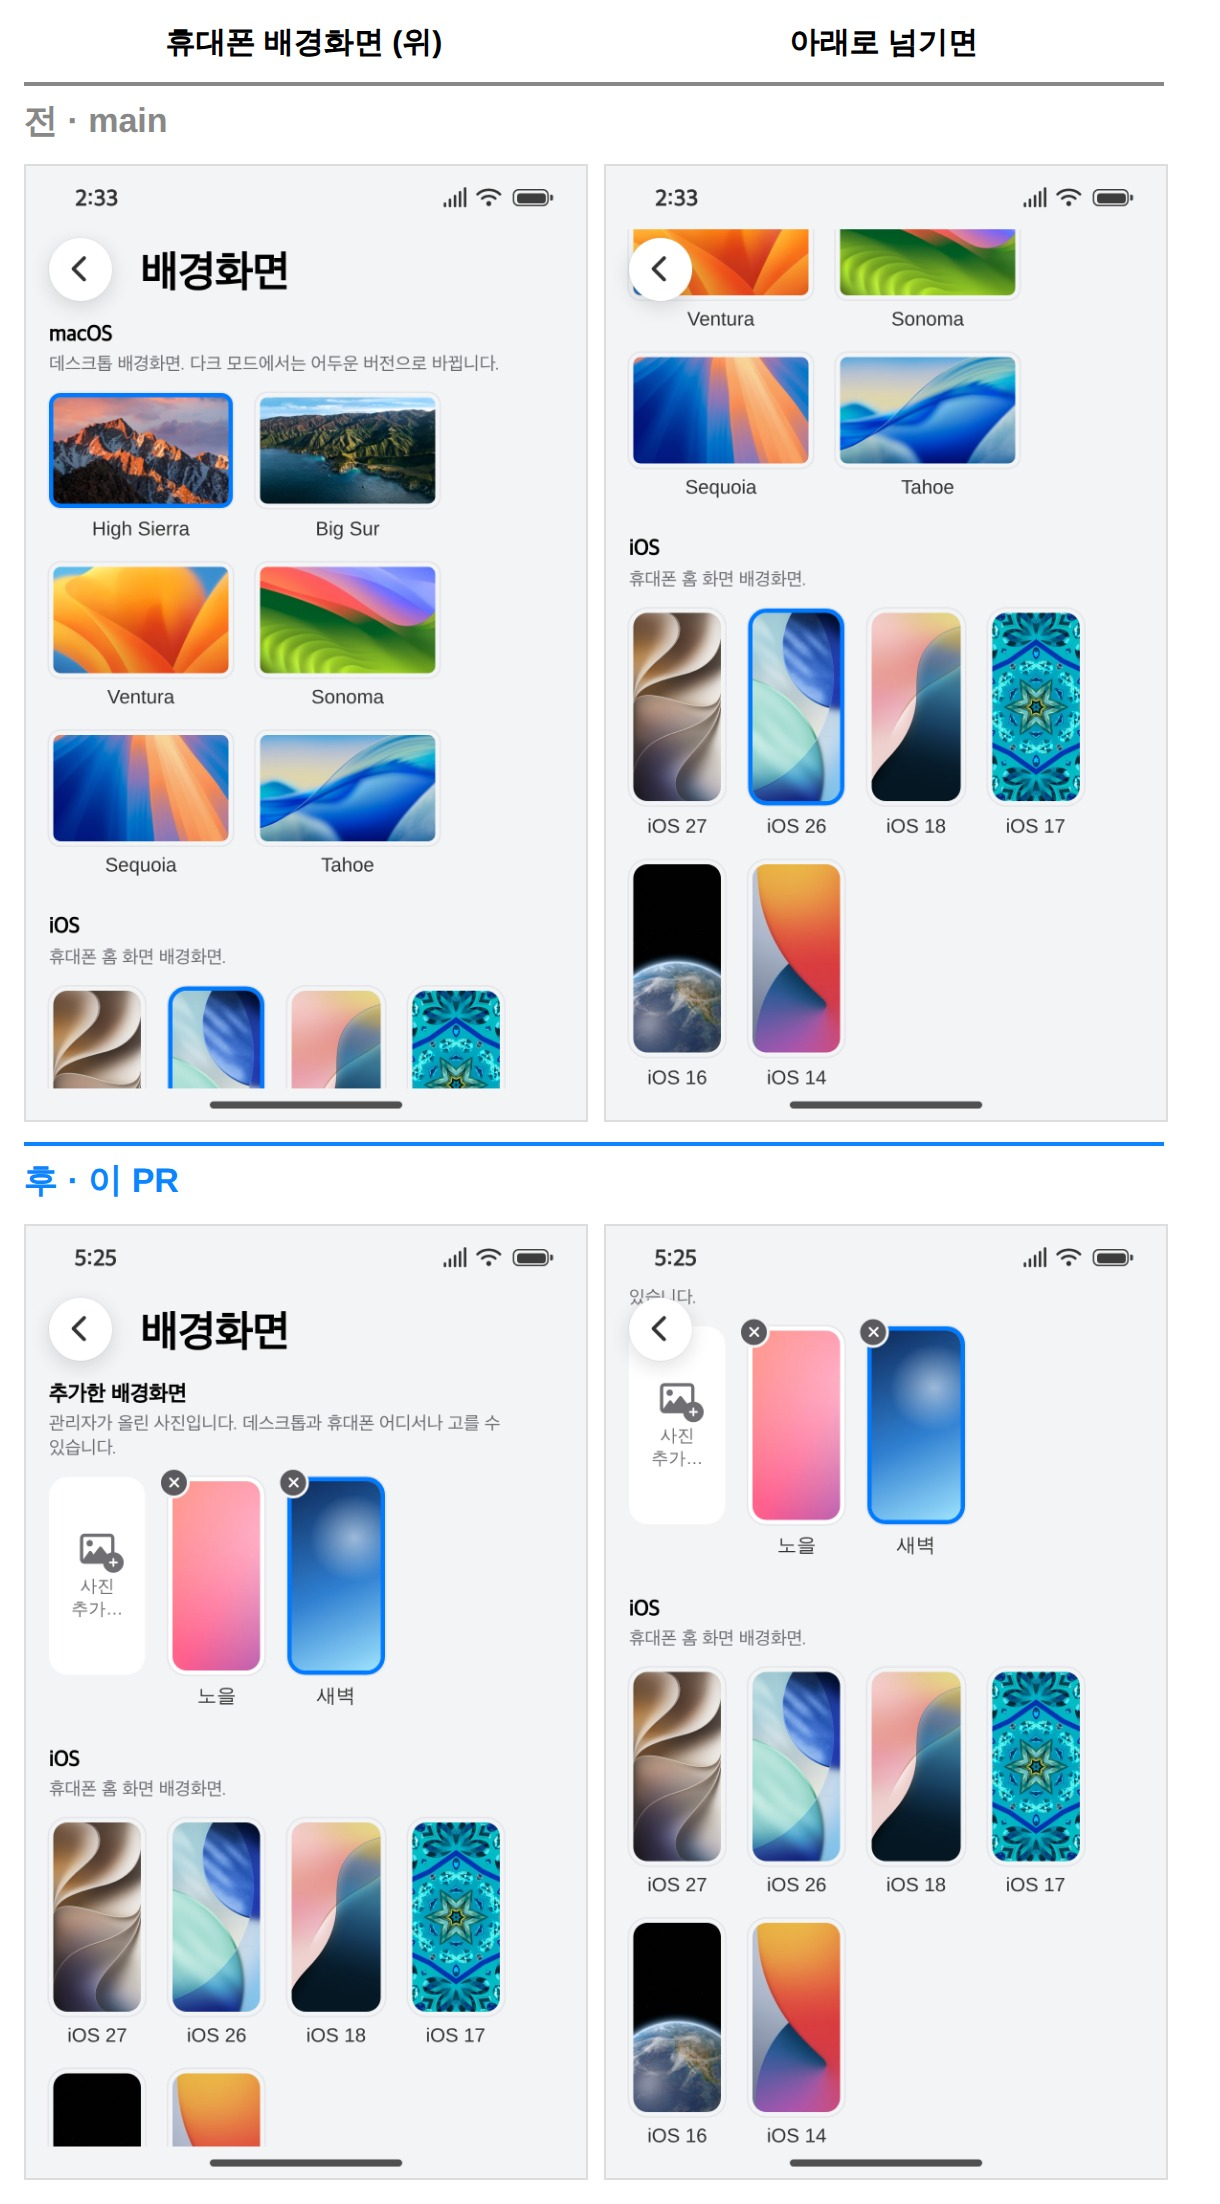
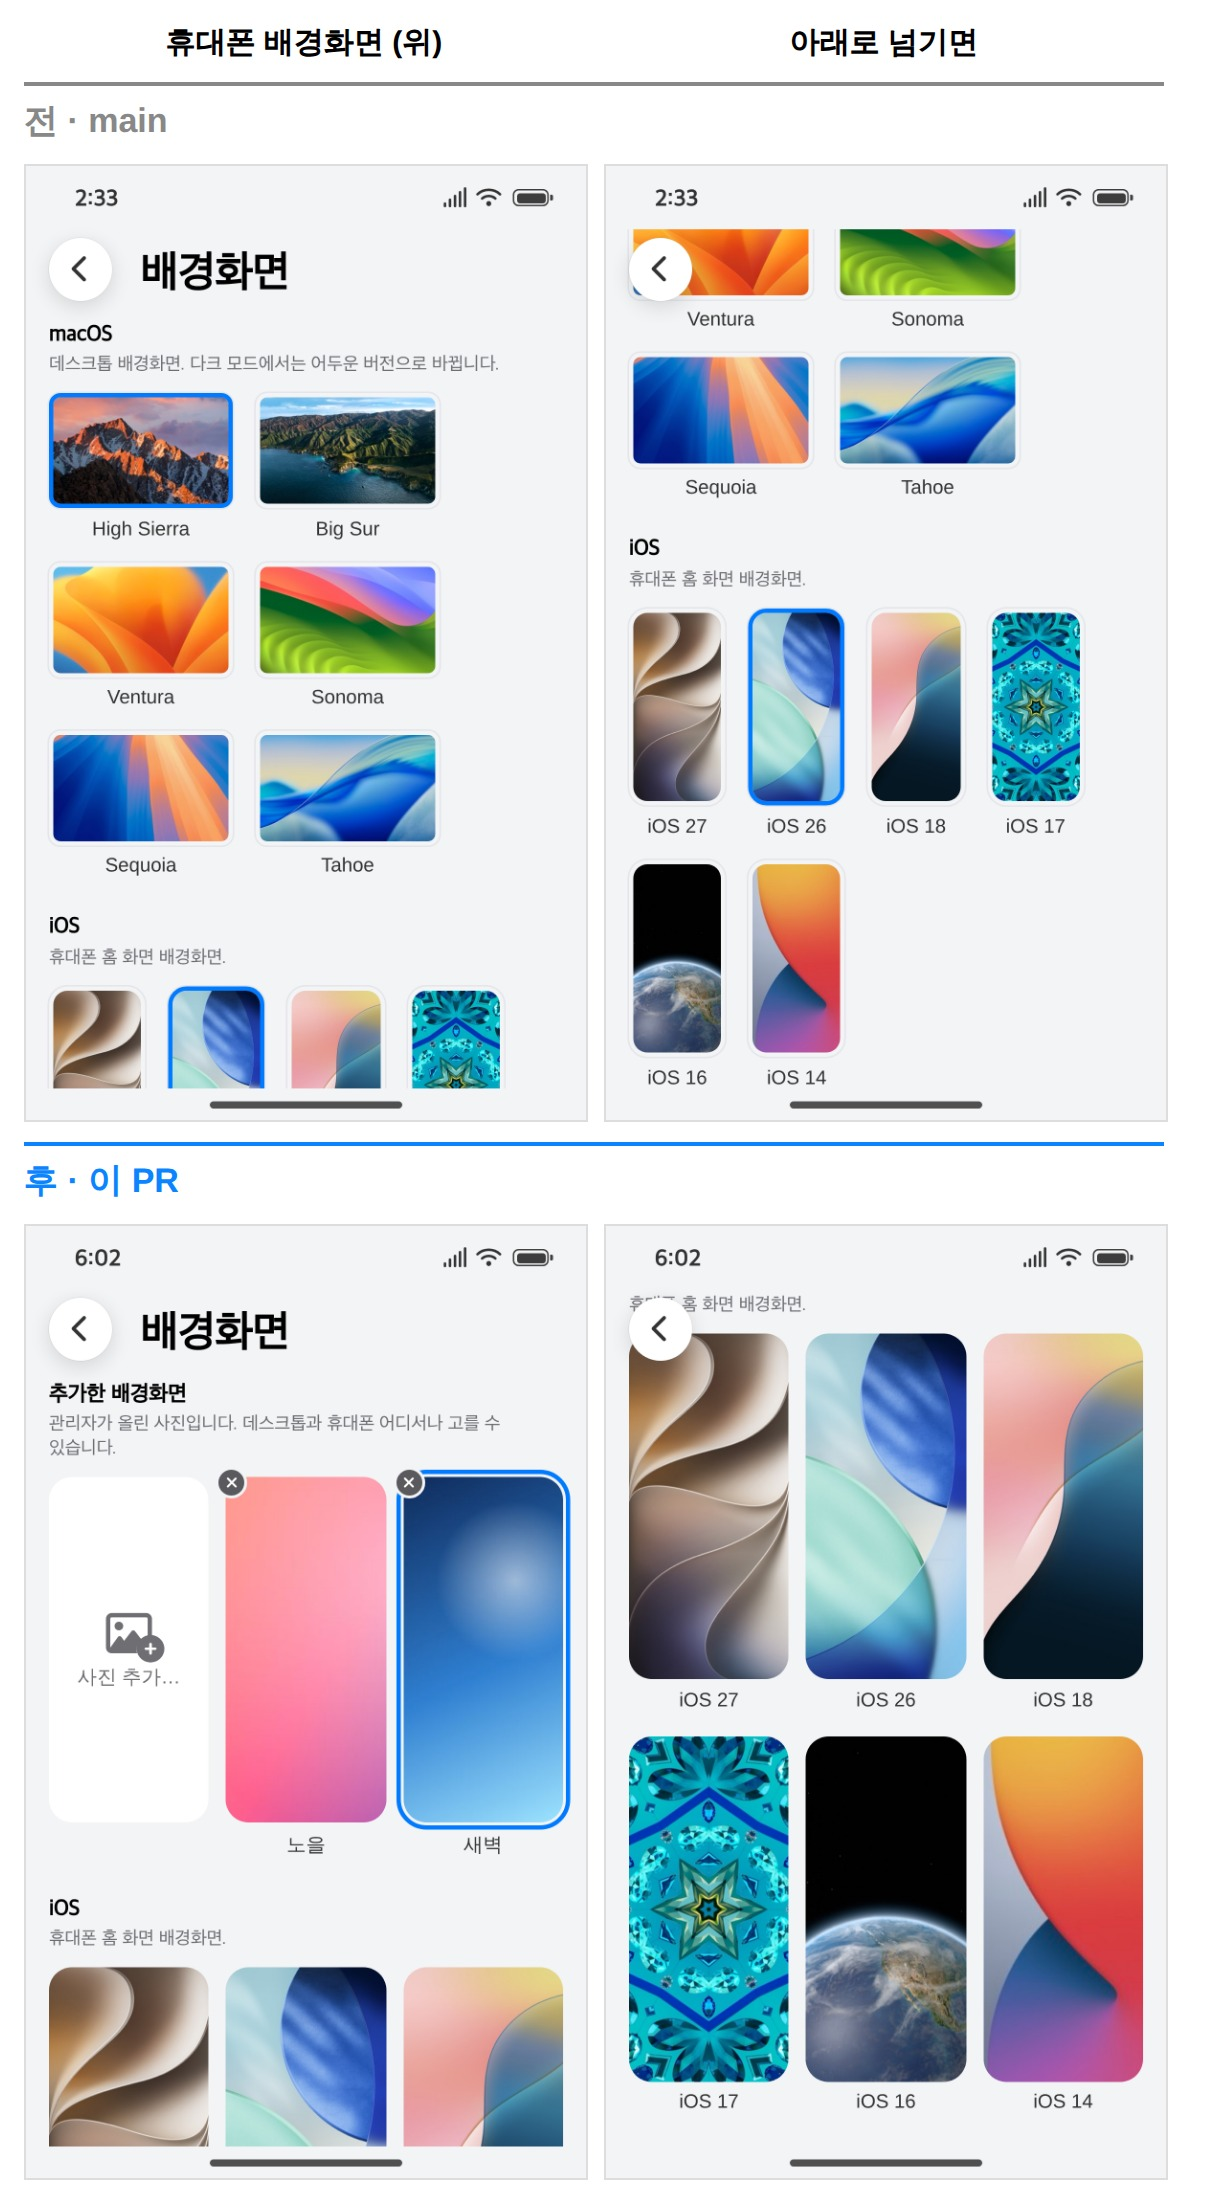
style(settings): 배경화면 썸네일 테두리 없이, 휴대폰은 세 칸으로 크게

diff --git a/apps/react/src/apps/settings/Settings.css b/apps/react/src/apps/settings/Settings.css
@@ -96,17 +96,27 @@
 	cursor: pointer;
 }
 
-.theme-preview,
-.wallpaper-thumbnail {
+.theme-preview {
 	display: block;
 	border: 3px solid transparent;
 	border-radius: 0.5rem;
 	box-shadow: 0 0 0 1px var(--color-divider);
 }
 
-.theme-option.selected .theme-preview,
-.wallpaper-option.selected .wallpaper-thumbnail {
+.theme-option.selected .theme-preview {
 	border-color: var(--color-accent);
+}
+
+/* 배경화면 썸네일: 테두리 없이 사진만 (macOS 설정처럼). 고르면 조금 떨어진 파란 고리 */
+.wallpaper-thumbnail {
+	display: block;
+	border-radius: 0.5rem;
+	outline: 3px solid transparent;
+	outline-offset: 2px;
+}
+
+.wallpaper-option.selected .wallpaper-thumbnail {
+	outline-color: var(--color-accent);
 }
 
 .theme-preview {
@@ -180,7 +190,7 @@
 	width: 8rem;
 	height: 5rem;
 	object-fit: cover;
-	transition: border-color var(--duration-fast) var(--ease-out);
+	transition: outline-color var(--duration-fast) var(--ease-out);
 }
 
 /* iOS 배경화면은 세로 */
@@ -528,4 +538,34 @@
 .container.mobile .wallpaper-custom .wallpaper-thumbnail,
 .container.mobile .wallpaper-add-plus {
 	background-color: var(--phone-card-bg);
+}
+
+/* 휴대폰: 썸네일을 화면 폭에 맞춰 세 칸으로 크게 (iOS 홈 화면 비율) */
+.container.mobile .wallpaper-grid {
+	display: grid;
+	grid-template-columns: repeat(3, minmax(0, 1fr));
+	gap: 18px 12px;
+}
+
+.container.mobile .wallpaper-option {
+	min-width: 0;
+}
+
+.container.mobile .wallpaper-thumbnail.portrait {
+	width: 100%;
+	height: auto;
+	aspect-ratio: 9 / 19.5;
+	border-radius: 1rem;
+}
+
+.container.mobile .wallpaper-thumbnail.portrait + .wallpaper-name {
+	max-width: 100%;
+}
+
+.container.mobile .wallpaper-add-icon {
+	font-size: 2rem;
+}
+
+.container.mobile .wallpaper-add-label {
+	font-size: 0.85rem;
 }
